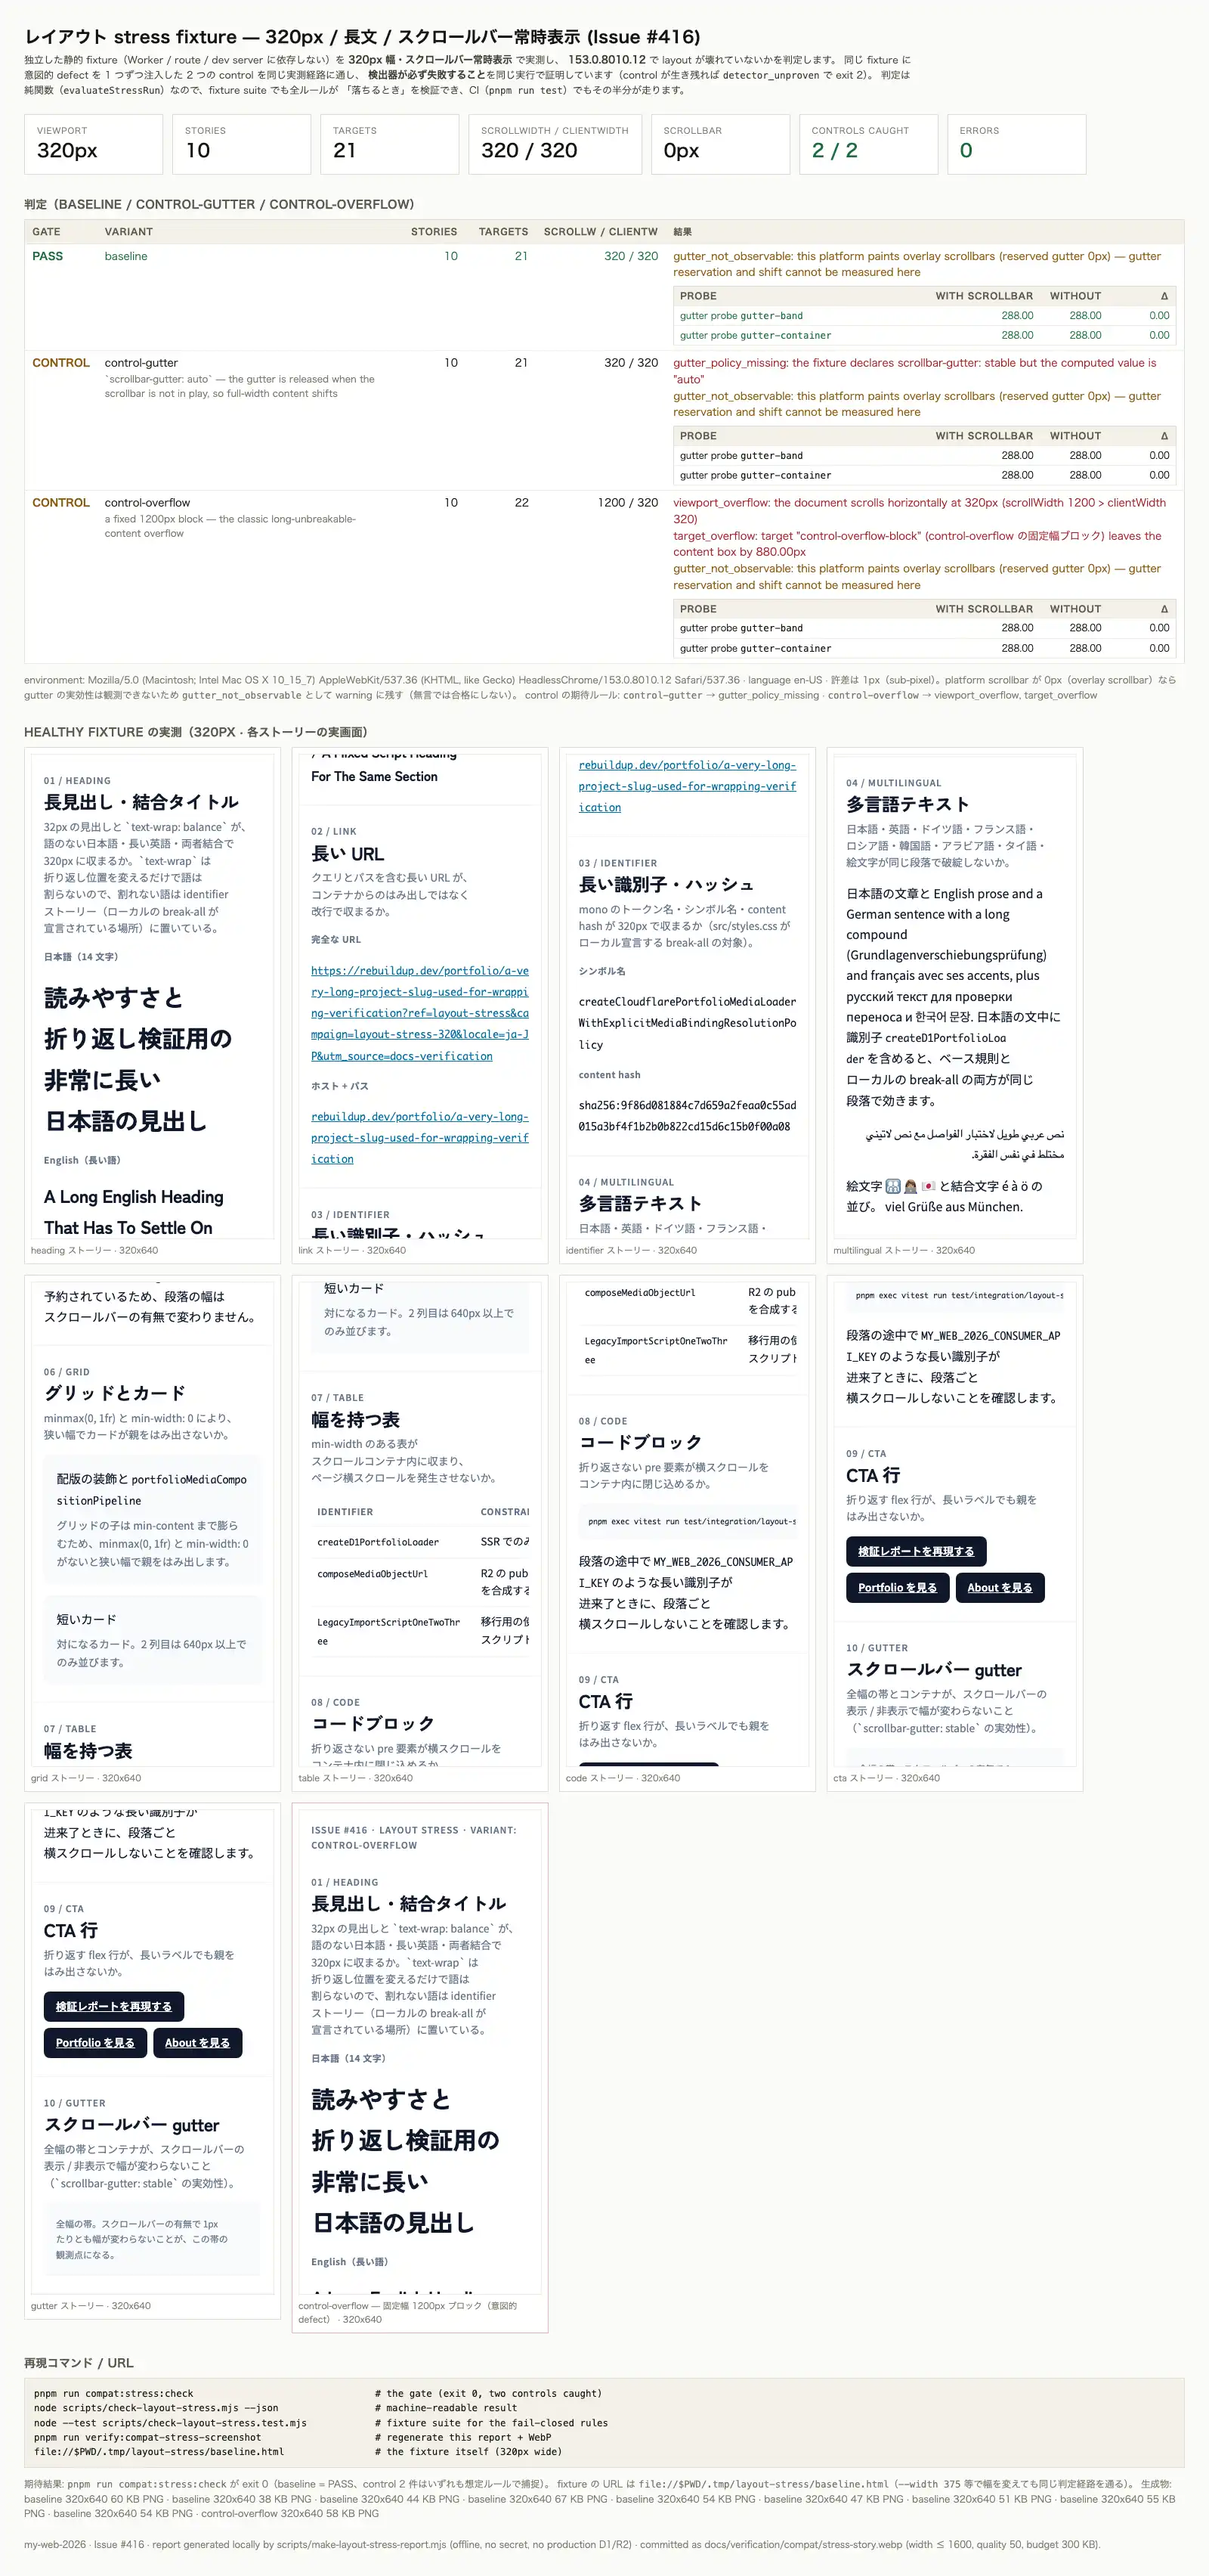
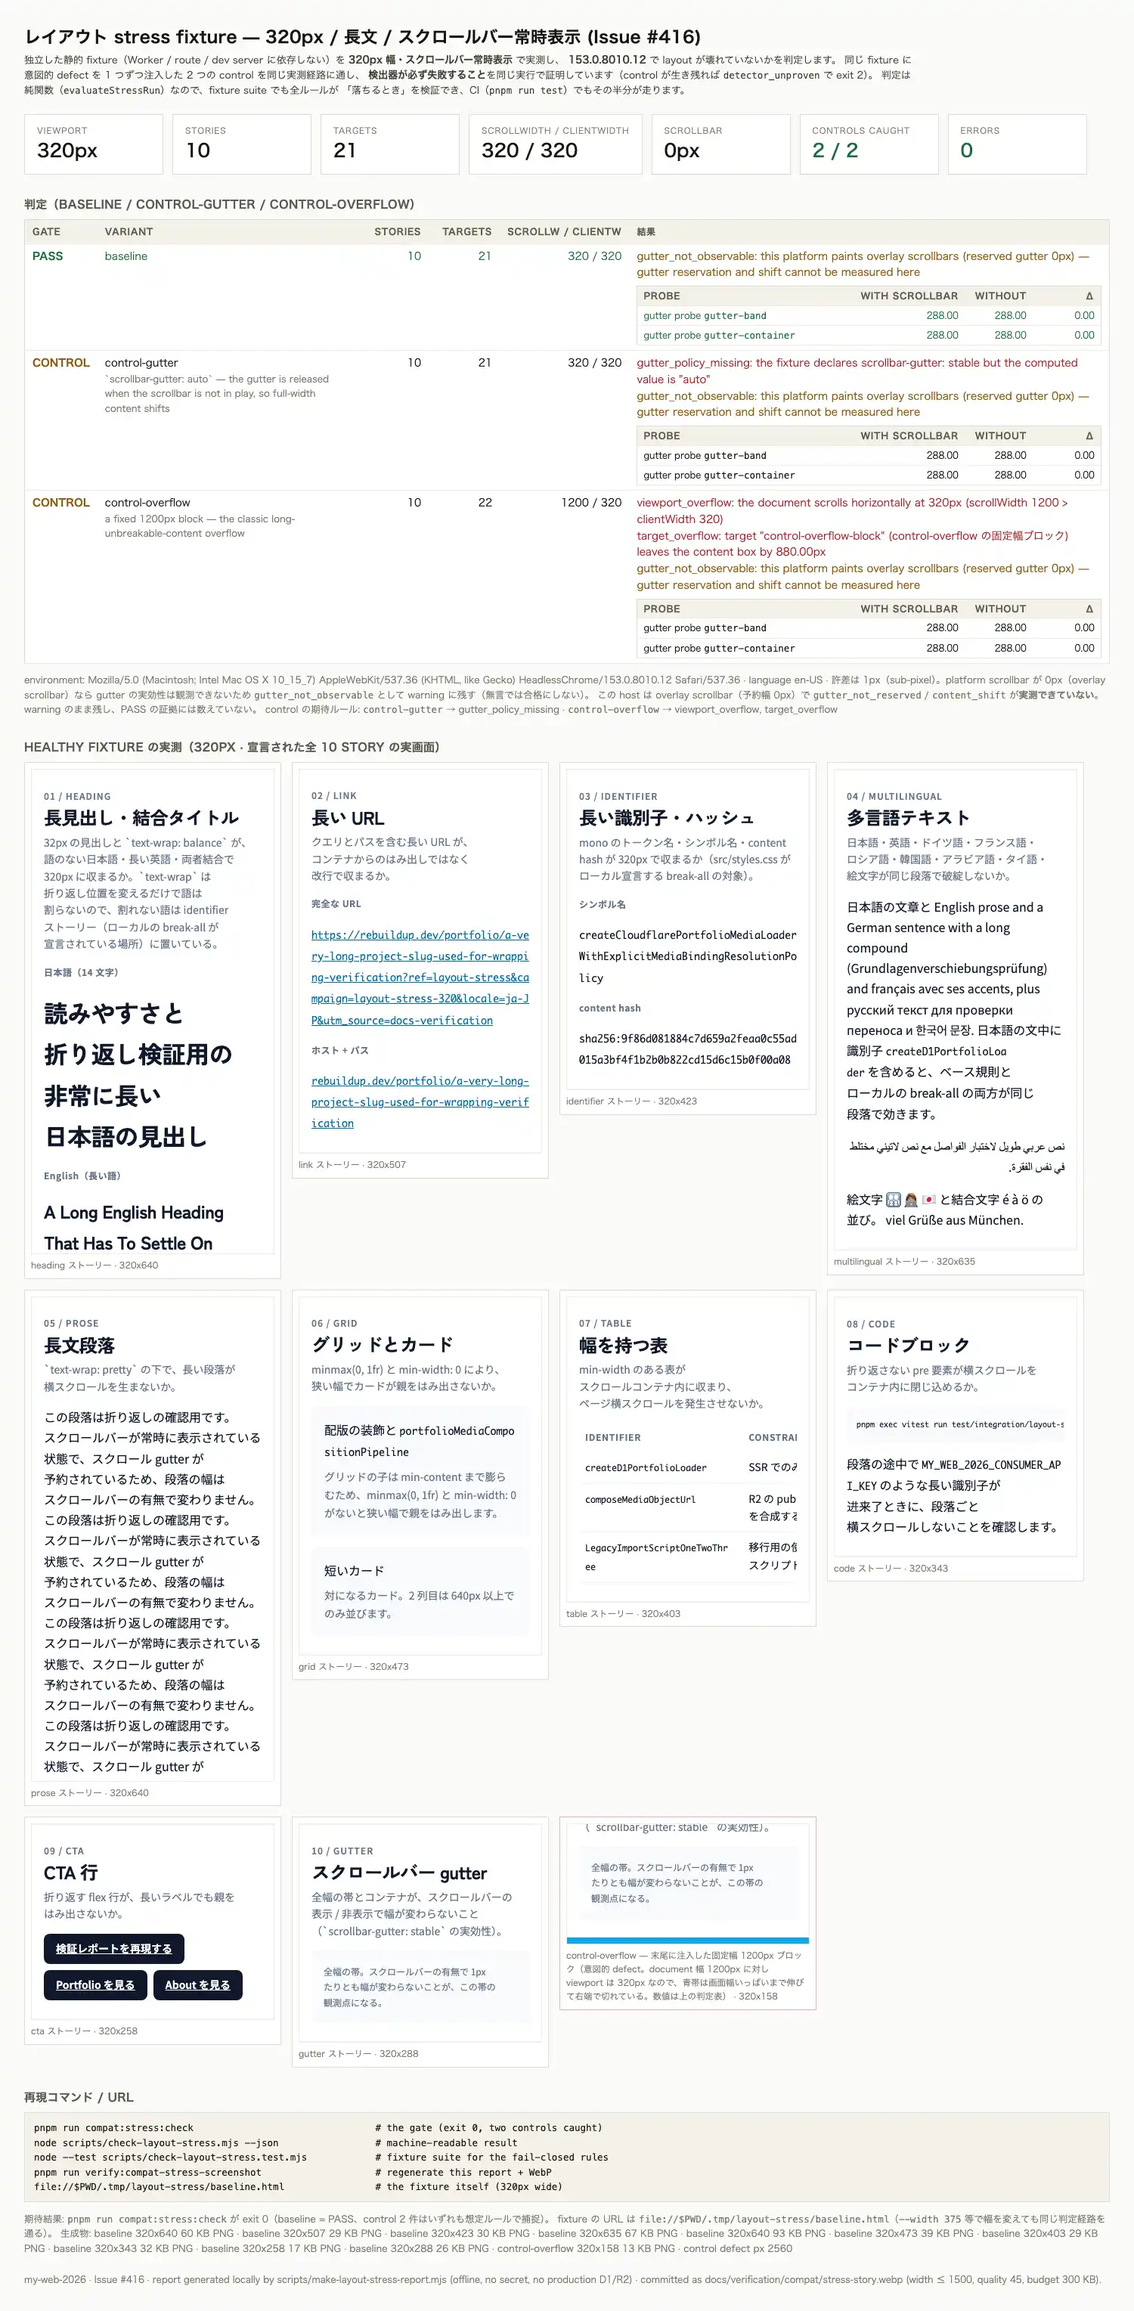
fix(compat): frame the injected defect in the evidence and cover every story (#416)
- capture each declared story by its own section box instead of whatever sat
  at scroll 0, and frame the control-overflow defect (it lives ~8 viewports
  below the fold, so the committed image never showed it)
- refuse to write the report unless the control capture actually contains the
  fixture's defect colour: a caption is a claim about the pixels next to it
- derive the capture list from STRESS_STORY_IDS so a story cannot be added to
  the fixture and stay out of the evidence (prose was missing)
- read the fixture path from the run that measured it; reuse one browser
- document gutter_probe_missing, and stop pointing at a classic-scrollbar CI
  run that does not exist
- regenerate the WebP at 1500px/quality 45 (261,298 B, inside the 300 KB
  budget)

diff --git a/docs/development.md b/docs/development.md
@@ -282,6 +282,10 @@ evidence が検証できた場合のみ warning、fallback 宣言が無い採用
 
 `pnpm run compat:stress:check` measures the shipped layout language at the
 narrowest supported viewport (320px) with a visible scrollbar (Issue #416).
+On a host that paints overlay scrollbars (macOS Chromium, reserved gutter
+0px) the gutter half of the gate degrades to a recorded
+`gutter_not_observable` warning rather than a pass — see
+[`docs/verification/compat/stress-story.md`](verification/compat/stress-story.md).
 It is a standalone static fixture — no Worker, no route, no dev server — and
 every run also measures two deliberately broken variants of the same document
 so the detector has to catch them by name; a surviving control exits 2 rather
